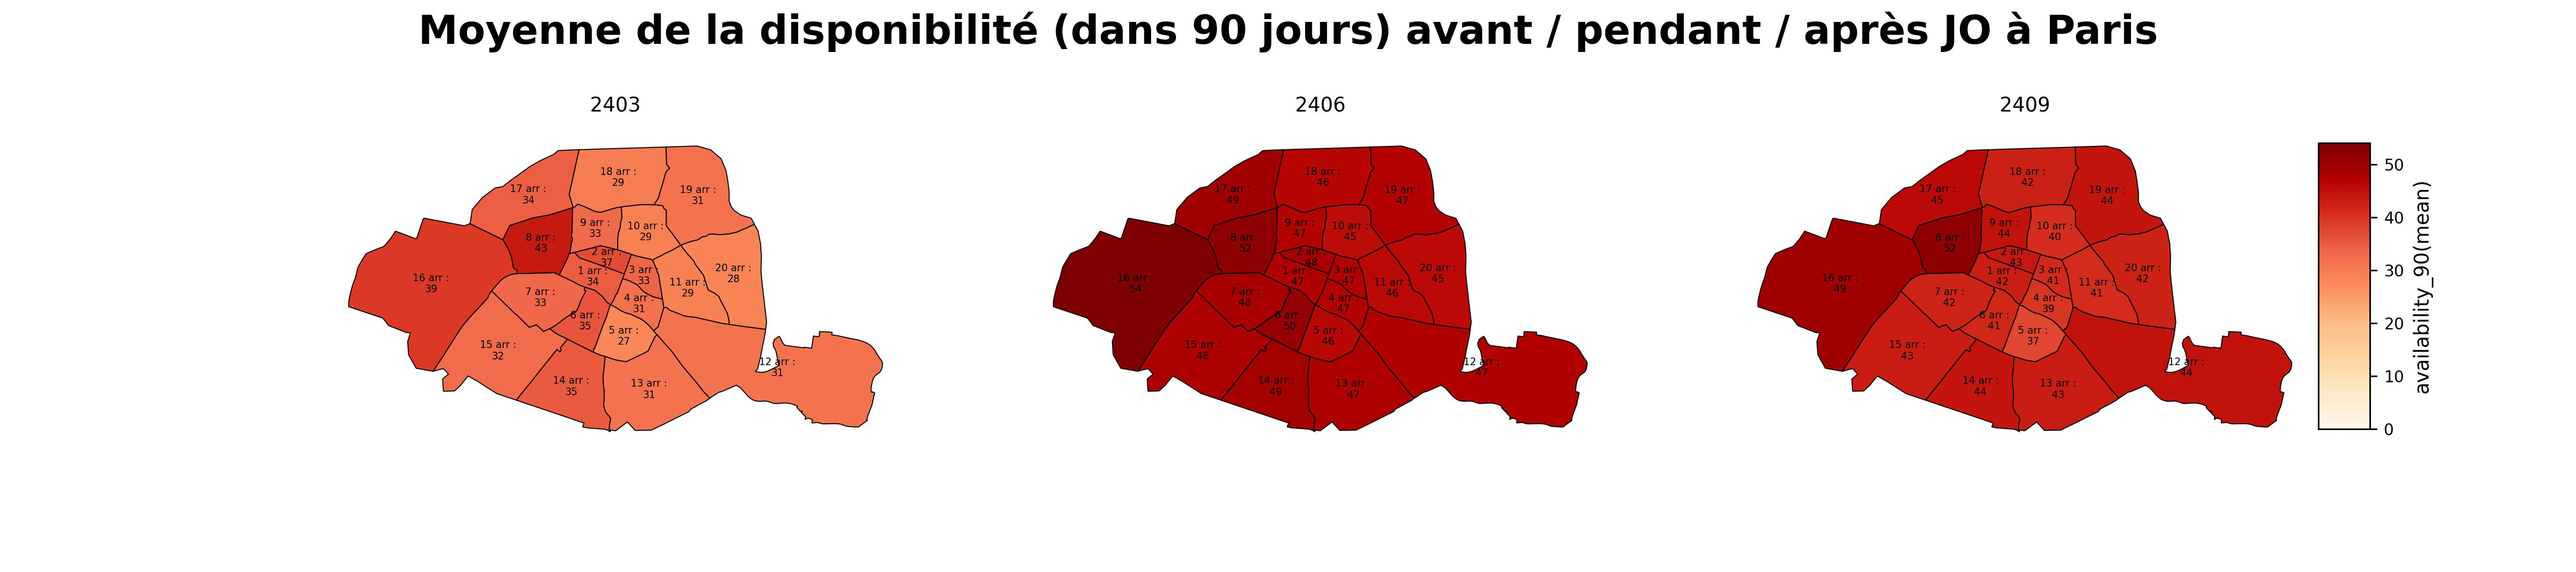
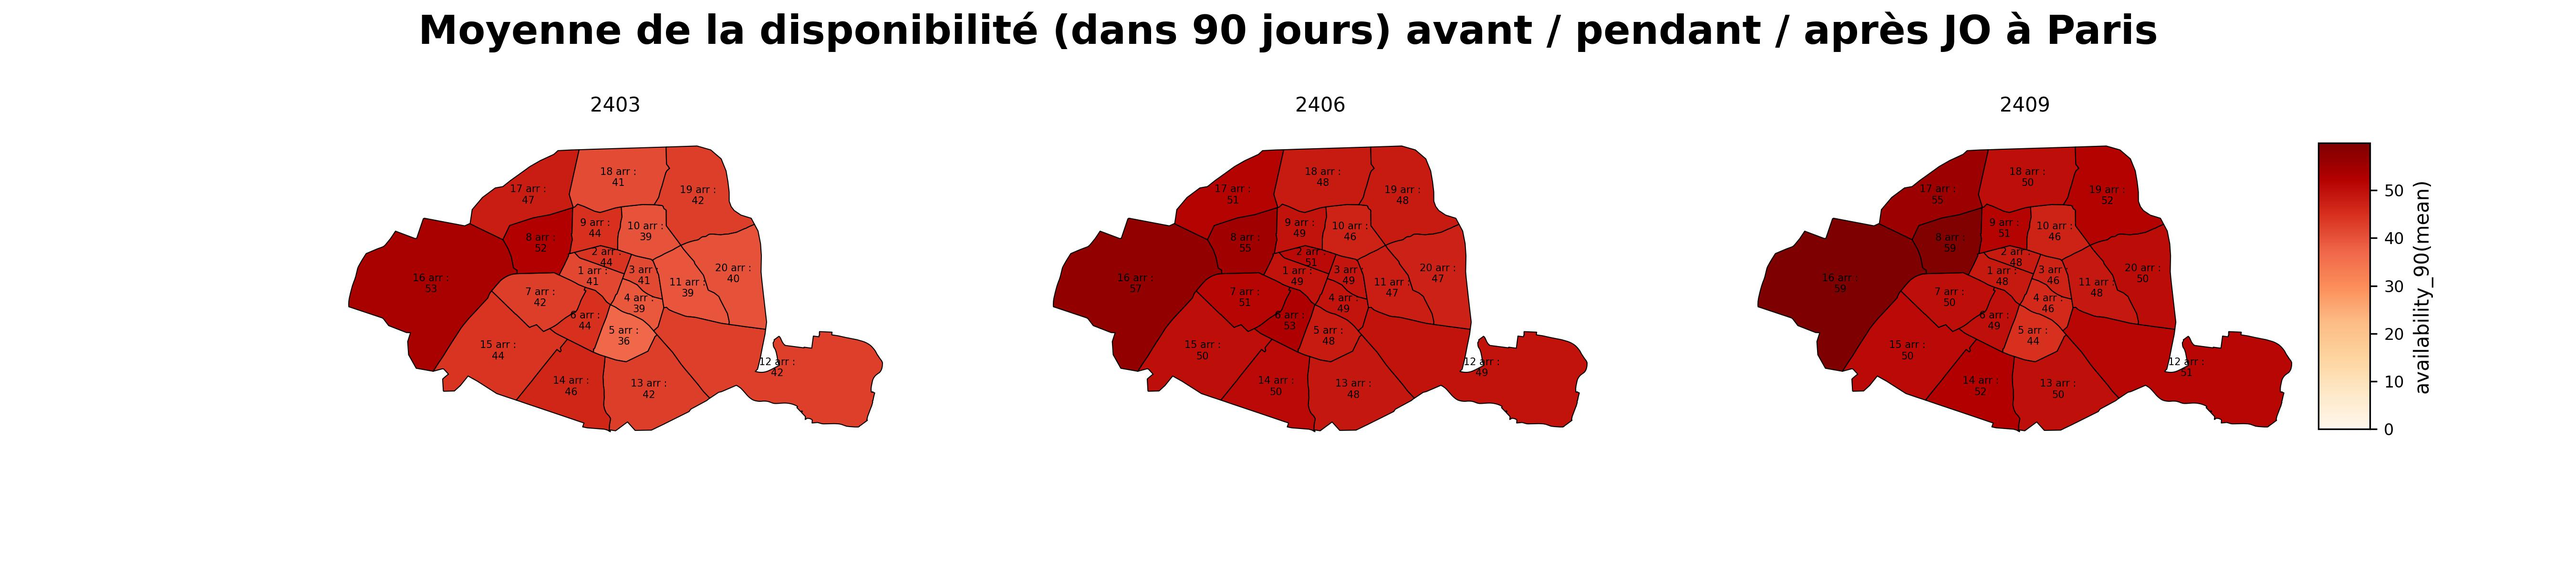
buffer

diff --git a/utils/geoplot.py b/utils/geoplot.py
@@ -70,20 +70,23 @@ def locate_points(path_listings, path_map, CRS,
         
     print("df_listings to gdf_listings by latitude and longitude!".center(100,"-"))        
     df=pd.read_csv(path_listings)
+    # display(df.head())
     
     gdf_listings=df2gdf(df=df, crs=CRS,
         save=False, output_folder=output_folder,
-        filename='')
+        filename=None)
     
     print("read gdf map".center(100,'-'))
     gdf_map=read_gdf(path_map)
-    
+    # print(gdf_map.crs)
+    # print(gdf_map.head())
     
     print("join gdf_listings and gdf".center(100,'-'))
     if gdf_listings.crs!=gdf_map.crs:
         print(f"[WARNING] {gdf_listings.crs}!={gdf_map.crs}")
     
     # make sure
+    
     gdf_listings = gdf_listings.to_crs(gdf_map.crs)
     
     #join: 把每一个 Airbnb 房源点，和它“所在的地图区域（多边形）”连在一起。
@@ -93,6 +96,7 @@ def locate_points(path_listings, path_map, CRS,
         how="left",#保留左表gdf_listings的所有行,即使没有在右表中找到，填nan
         predicate="within"#左边的几何对象（pts）在右边的几何对象（polygone）之中
     )
+    # display(gdf_joined)
     
     # save:
     if save_gdf_joined:
@@ -111,16 +115,24 @@ def locate_points(path_listings, path_map, CRS,
 def get_pts_map(gdf_pts, gdf_map,title=None,
                 save=False,output_folder=None,):
     
+    gdf_pts=gdf_pts.to_crs(gdf_map.crs)
+    print("pts CRS:", gdf_pts.crs)
+    print("map CRS:", gdf_map.crs)
+
+
     fig, ax = plt.subplots(figsize=(16, 16))
 
     # Afficher les jeux de données sur la carte
-    gdf_pts.plot(ax=ax, color='blue', markersize=5)
+    # gdf_pts.plot(ax=ax, color='blue', markersize=5)
+    # gdf_map.plot(ax=ax, color='white', edgecolor='black')
     gdf_map.plot(ax=ax, color='white', edgecolor='black')
+    gdf_pts.plot(ax=ax, color='blue', markersize=20)
 
     # Ajouter une grille de coordonnées et un titre
     ax.set_xlabel('Coordonnée x')
     ax.set_ylabel('Coordonnée y')
     ax.set_title(title)
+    
     if save :
         os.makedirs(output_folder,exist_ok=True)
         
@@ -199,7 +211,6 @@ def get_groups (gdf_joined, col, way, groupby):
                 # way=(col, way) #简写无法动态取way的值 
         )
          
-        
     vmin= groups[way].min()
     vmax= groups[way].max()
     return groups, vmin, vmax
@@ -214,9 +225,10 @@ def get_groups (gdf_joined, col, way, groupby):
 #===============================choropleth map=============================================
 
 def get_choropleth_map(gdf_joined, 
+            gdf_venues,
             gdf_map, 
             col, way, groupby,
-            subtitle,
+            subtitle=None,
             fig=None, subax=None, vmin=None, vmax=None,# oblig for subplot
             save=False, loc=None, ym=None, 
             output_folder=None,filename=None
@@ -229,6 +241,7 @@ def get_choropleth_map(gdf_joined,
     
     # agg
     groups, vmin_current, vmax_current =get_groups(gdf_joined=gdf_joined, col=col, way=way, groupby=groupby)
+    # display(groups)
     
     # merge back to gdf_map
     gdf_merged = gdf_map.merge(groups, on=groupby, how="left")
@@ -278,6 +291,19 @@ def get_choropleth_map(gdf_joined,
             fontsize=fontsize_text,
             linespacing=1.2,
         )
+        
+        
+    if gdf_venues is not None and not gdf_venues.empty:#不为none且不为空        
+        # center
+        gdf_venues = gdf_venues.to_crs(gdf_merged.crs)
+        gdf_venues.plot(
+            ax=ax, 
+            markersize=100, 
+            color="blue", 
+            marker="*",
+            label="Main Venue"
+        )
+
     
     ax.set_title(subtitle, fontsize=10, pad=10)# pad btw title & ax
     ax.axis("off")
@@ -299,6 +325,7 @@ def get_choropleth_map(gdf_joined,
 
 
 def layout_comparison_indep(dict_gdf_joined, gdf_map,
+                gdf_venues,
                 col, way, groupby,
                 suptitle, loc, # for filename
                 n_axes, n_cols=3,#每行最多几张（列）
@@ -331,6 +358,7 @@ def layout_comparison_indep(dict_gdf_joined, gdf_map,
     for ym, gdf_joined in dict_gdf_joined.items():
         get_choropleth_map(gdf_joined=gdf_joined, 
             gdf_map=gdf_map, 
+            gdf_venues=gdf_venues,
             col=col, way=way, groupby=groupby,
             subtitle=ym,
             fig=fig, subax=axes[i], vmin=vmin, vmax=vmax,

diff --git a/utils/split_listings.py b/utils/split_listings.py
@@ -71,14 +71,14 @@ def split_change_stable(path_Q1, path_Q2, year:int,threshold_text_sim=0.85,
     merged = hosts_Q1.merge(hosts_Q2, on='host_id', how='outer')
     """
     merged:
-        host_id   Q1   Q2          status
+            host_id   Q1   Q2          status
     0            275  1.0  NaN  deactived_host
     1           2626  6.0  3.0        old_host
 
     """
 
     # 标记每个host_id在Q1>Q2的状态:
-    # reactive_host, desactive_host, old_host : listings增加/减少/不变
+    # reactive_host(这里包括了new host), desactive_host, old_host : listings增加/减少/不变
     merged['status'] = merged.apply(
         lambda r:
             'reactive_host' if pd.isna(r['Q1']) else
@@ -90,9 +90,10 @@ def split_change_stable(path_Q1, path_Q2, year:int,threshold_text_sim=0.85,
     # 按照host_id merge back
     df=df.merge(merged[['host_id','status']], left_on='host_id', right_on='host_id',how='left')
 
-    # 把reactive_host和host_since在今年6以前的标记为new_host, 做成mask
+    # 把是reactive_host，且host_since在今年6以前的标记为new_host, 做成mask
     # 仅用host_since只能识别出很小一部分的房东，可能很早注册房东，但没有出租，受到JO刺激才进入市场！
     # mtd：根据host_since 细分new和reactive：纯向量操作（快十几倍，不需要 apply），同下效果。
+    
     mask = (
         (df['status'] == 'reactive_host') &
         (df['host_since'].between(f'{year}-01-01', f'{year}-06-30'))# faut int ici!!!

diff --git a/utils/preprocess_listings.py b/utils/preprocess_listings.py
@@ -348,7 +348,8 @@ def add_booking_rate_l90d(df, df_nextQ):
 
     df_reviews['number_of_reviews_nextQ']=df_reviews['number_of_reviews_till_nextQ']-df_reviews["number_of_reviews_till_Q"]
     df_reviews['number_of_reviews_nextQ']=df_reviews['number_of_reviews_nextQ'].apply(lambda x : np.nan if x<0 else x)
-    
+    print(f"[CHECK] no match on reviews_nextQ : {len(df_reviews[df_reviews['number_of_reviews_nextQ'].isna()])};\n"
+          f"ava90==0: {len(df_reviews[df_reviews['availability_90']==0])}")
     df_reviews['booking_rate_l90d'] = df_reviews.apply(
                 lambda row: min(row['number_of_reviews_nextQ'] / row['availability_90'], 1.0)
                 if row['availability_90'] > 0 else None,
@@ -498,9 +499,10 @@ def preprocess_obj_vars(df, df_nextQ, proxy_vars=['price',"availability_30","ava
         vars_to_dropna.extend(["number_of_reviews_l30d","availability_30","booking_rate_l30d"])
     
     if get_booking_rate_l90d==True :
-        if  df_nextQ is not None and not df_nextQ.empty:
+        if  df_nextQ is  None or df_nextQ.empty:
             print(f"[CHECK] need df_nextQ!!!")
         else :
+            print(f"[CHECK] get booking_rate_l90d!")
             df=add_booking_rate_l90d(df, df_nextQ)
         vars_to_dropna.extend(["number_of_reviews_nextQ","availability_90","booking_rate_l90d"])
     
